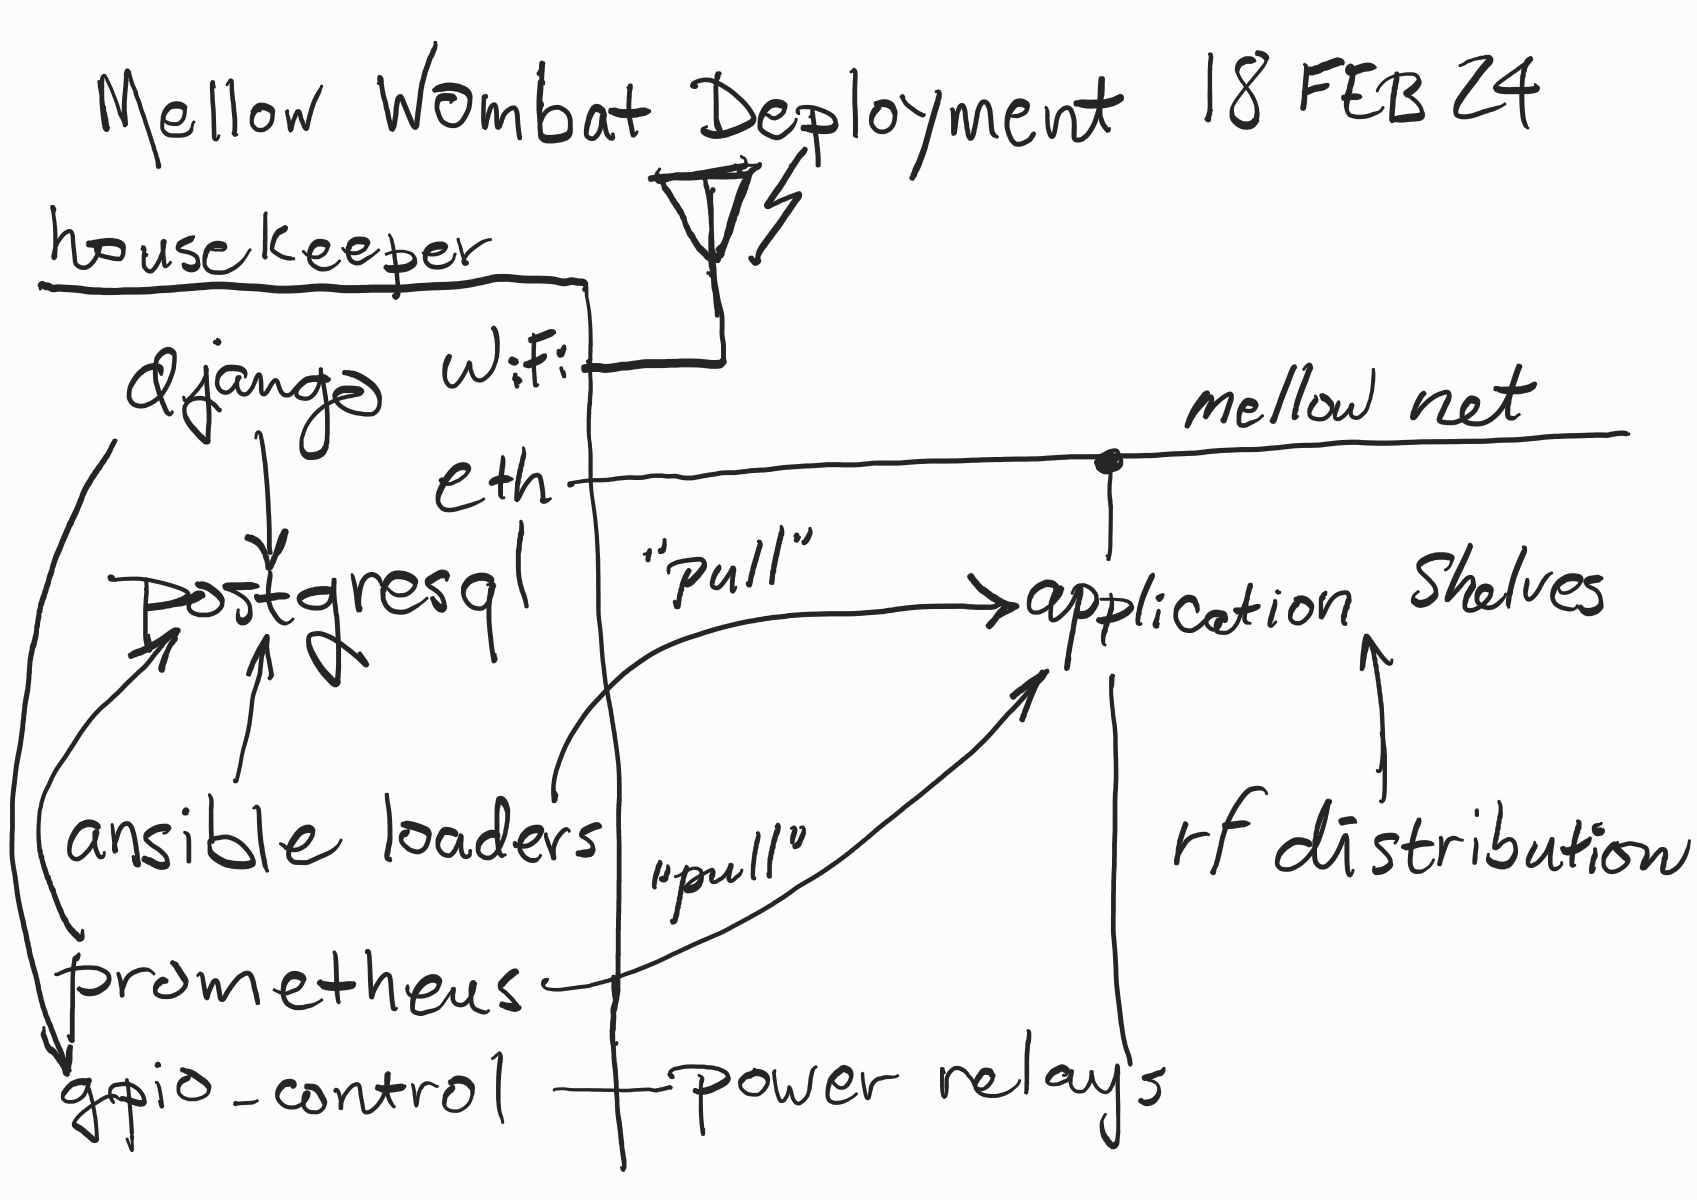
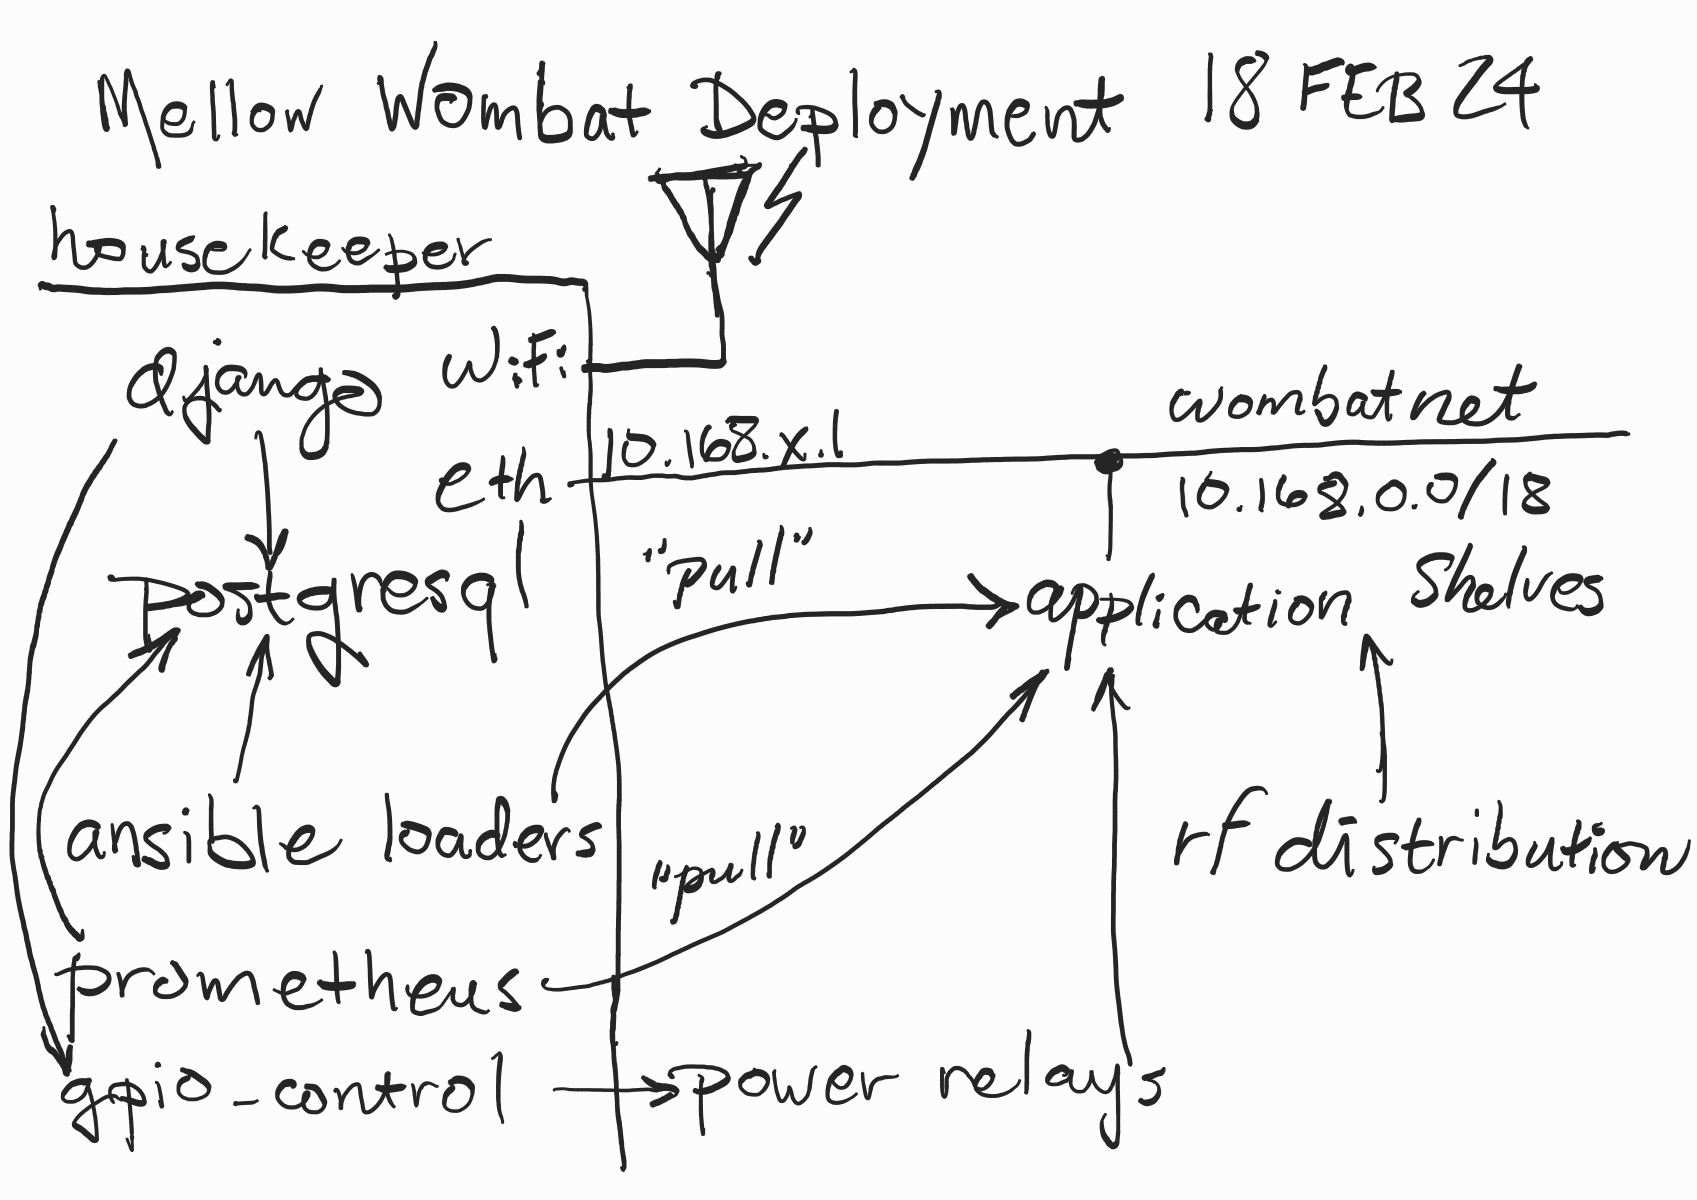
documentation update

diff --git a/README.md b/README.md
@@ -4,9 +4,9 @@ Physical packaging, control and monitoring of RF collection systems like [heeler
 Mellow Wombat is different from most [SDR](https://en.wikipedia.org/wiki/Software-defined_radio) projects in that the user interface (provided by [housekeeper](https://github.com/guycole/mellow-wombat/blob/main/shelf/housekeeper.md)) is minimal, and there is an emphasis on automatic collection/storage of selected emitters.
 
 ## Introduction
-Mellow Wombat is a physical framework which supports a portable RF collection system consisting of radio receivers, computers, networking and storage.  MW is designed to fit within [Costco Storage Bin](https://costco.com/.product.4000205525.html) which are weather resistant, durable and inexpensive.  The only external resources to an "storage bin" is power and antennas.
+Mellow Wombat is a physical framework which supports a portable RF collection system consisting of radio receivers, computers, networking and storage.  A MW deployment consists of a [wooden "crate"](https://github.com/guycole/mellow-wombat/blob/main/grafix/crate_dimensions.png) which contains ["shelves"](https://github.com/guycole/mellow-wombat/blob/main/grafix/first_power.png) where the subsystems reside.  Mellow Wombat provides power, network and RF distribution to the shelves.  There is a ["housekeeper"](https://github.com/guycole/mellow-wombat/blob/main/shelf/housekeeper.md) computer which monitors and controls the shelves as necessary.
 
-Within the "storage bin" is a [wooden "crate"](https://github.com/guycole/mellow-wombat/blob/main/grafix/crate_dimensions.png) which contains ["shelves"](https://github.com/guycole/mellow-wombat/blob/main/grafix/first_power.png) where the subsystems reside.  Mellow Wombat provides power, network and RF distribution to the shelves.  There is a ["housekeeper"](https://github.com/guycole/mellow-wombat/blob/main/shelf/housekeeper.md) computer which monitors and controls the shelves as necessary.
+MW is designed to fit within [Costco Storage Bin](https://costco.com/.product.4000205525.html) which are weather resistant, durable and inexpensive.  The only external resources to an "storage bin" is power and antennas.
 
 Mellow Wombat can run autonomously for extended periods, and will share observations to a remote host when connectivity is restored.  MW can also be remotely tasked when connectivity exists.  The housekeeper also supports scheduled activities.  
 

diff --git a/infra/rpi5_config.md b/infra/rpi5_config.md
@@ -1,8 +1,5 @@
 # rpi5 configuration
-Each crate typically has one [raspberry pi 5](https://www.raspberrypi.com/products/raspberry-pi-5/) as a [housekeeper](http://fixme).
-
-
- is a [django](https://www.djangoproject.com/) application
+Each crate typically has one [raspberry pi 5](https://www.raspberrypi.com/products/raspberry-pi-5/) as a [housekeeper](https://github.com/guycole/mellow-wombat/blob/main/shelf/housekeeper.md).
 
 ## Initial Configuration Steps
 1. Create an image using the [raspberry pi imager](https://www.raspberrypi.com/news/raspberry-pi-imager-imaging-utility/).  Currently this is "Raspberry Pi OS (64 bit)" which is a port of "Debian Bookworm" released 2023-12-05.
@@ -18,6 +15,27 @@ Each crate typically has one [raspberry pi 5](https://www.raspberrypi.com/produc
     1.  Add applications
         1. After image creation.
 
-##
+## Debian Bookworm
+1. [changes])(https://www.debian.org/releases/bookworm/amd64/release-notes/ch-information.en.html)
+1. rsyslog is gone, replaced with journalctl (oh, this sucks...)
+1. nmcli is the latest sparkly network management tool
+    1. https://access.redhat.com/documentation/en-us/red_hat_enterprise_linux/8/html/configuring_and_managing_networking/configuring-an-ethernet-connection_configuring-and-managing-networking
+    1. ```nmcli c show```
+    1. ```nmcli c modify "Wired connection 1" connection.id "wombat-net"```
+    1. ```nmcli c show wombat-net```
+    1. ```nmcli connection modify wombat-net ipv4.method manual ipv4.addresses 10.168.0.0/18 ipv4.gateway 10.168.1.1 ipv4.dns 8.8.8.8 ipv4.dns-search braingang.net```
 
+## mellow-net
+1. I want simultaneous WiFi and wired ethernet w/IP forwarding.
+1. I want access via WiFi and access via wired ethernet.
+1. Shelf IP assignments in [housekeeper.md](https://github.com/guycole/mellow-wombat/blob/main/shelf/housekeeper.md)
 
+## ansible
+1. do not install via pip, use apt-get ansible
+1. do not use ssh-copy-id/authorized keys
+
+## postgresql
+1. TBD
+
+## prometheus
+1. TBD

diff --git a/shelf/housekeeper.md b/shelf/housekeeper.md
@@ -1,0 +1,42 @@
+# housekeeper shelf
+Housekeeper performs the shared support functions which the application shelves rely on.  
+
+## Housekeeping Shelf Features
++ 12 VDC power control to client shelves (except crate01)
++ Network gateway (wifi for external, wired ethernet for internal network)
++ System console (web and REST crate control)
+    + Display recently collected information 
++ System logging, etc.
++ Monitoring (prometheus and logs)
++ Environmental sensors (temperature, humidity, etc)
++ Security sensors (vibration, door monitoring)
++ Audio alert
++ Solar charging monitoring
++ Location/time [Perky Janus](https://github.com/guycole/perky-janus)
+
+## Supporting Crate Features
++ UHF/VHF multicoupler (RF distribution, 25 MHz to 1 GHz)
+
+## Housekeeper V1
++ [Configuration](https://github.com/guycole/mellow-wombat/blob/main/infra/rpi5_config.md)
+
+## MellowNet
++ 10.168.crate.project  
++ 10.168.0.0/18 = 10.168.0.1 to 10.168.63.254
++ 10.168.1.0/24 = 10.168.1.0 to 10.168.1.254 (crate 1 address range)
++ 10.168.2.0/24 = 10.168.2.0 to 10.168.2.254 (crate 2 address range)
++ 10.168.3.0/24 = 10.168.3.0 to 10.168.3.254 (crate 3 address range)
++ 10.168.1.3 boris
++ 10.168.1.5 waifu
++ 10.168.x.1 wombat (gateway)
+
+| CIDR            | First Address | Last Address | Reservation |
+| --------------- | ------------- | ------------ | ----------- |
+| 10.168.x.0/28   | 10.168.x.1    | 10.168.x.14  | Wombat      |
+| 10.168.x.16/28  | 10.168.x.17   | 10.168.x.30  | Heeler      |
+| 10.168.x.32/28  | 10.168.x.33   | 10.168.x.46  | Hyena       |
+| 10.168.x.48/28  | 10.168.x.49   | 10.168.x.62  | Koala       |
+| 10.168.x.64/28  | 10.168.x.65   | 10.168.x.78  | Manatee     |
+| 10.168.x.80/28  | 10.168.x.81   | 10.168.x.94  | Available   |
+| 10.168.x.96/28  | 10.168.x.97   | 10.168.x.110 | Available   |
+| 10.168.x.112/28 | 10.168.x.113  | 10.168.x.126 | Available   |

diff --git a/shelf/manatee.md b/shelf/manatee.md
@@ -1,0 +1,2 @@
+# manatee shelf
+Supports [Mellow Manatee](https://github.com/guycole/mellow-manatee collection.

diff --git a/shelf/heeler.md b/shelf/heeler.md
@@ -1,0 +1,2 @@
+# heeler shelf
+Supports [Mellow Heeler](https://github.com/guycole/mellow-heeler collection.

diff --git a/shelf/hyena.md b/shelf/hyena.md
@@ -1,0 +1,2 @@
+# hyena  shelf
+Supports [Mellow Hyena](https://github.com/guycole/mellow-hyena collection.

diff --git a/shelf/koala.md b/shelf/koala.md
@@ -1,0 +1,2 @@
+# koala shelf
+Supports [Mellow Koala](https://github.com/guycole/mellow-koala collection.

diff --git a/infra/rpi3_config.md b/infra/rpi3_config.md
@@ -1,0 +1,1 @@
+https://www.makeuseof.com/raspberry-pi-set-static-ip/
